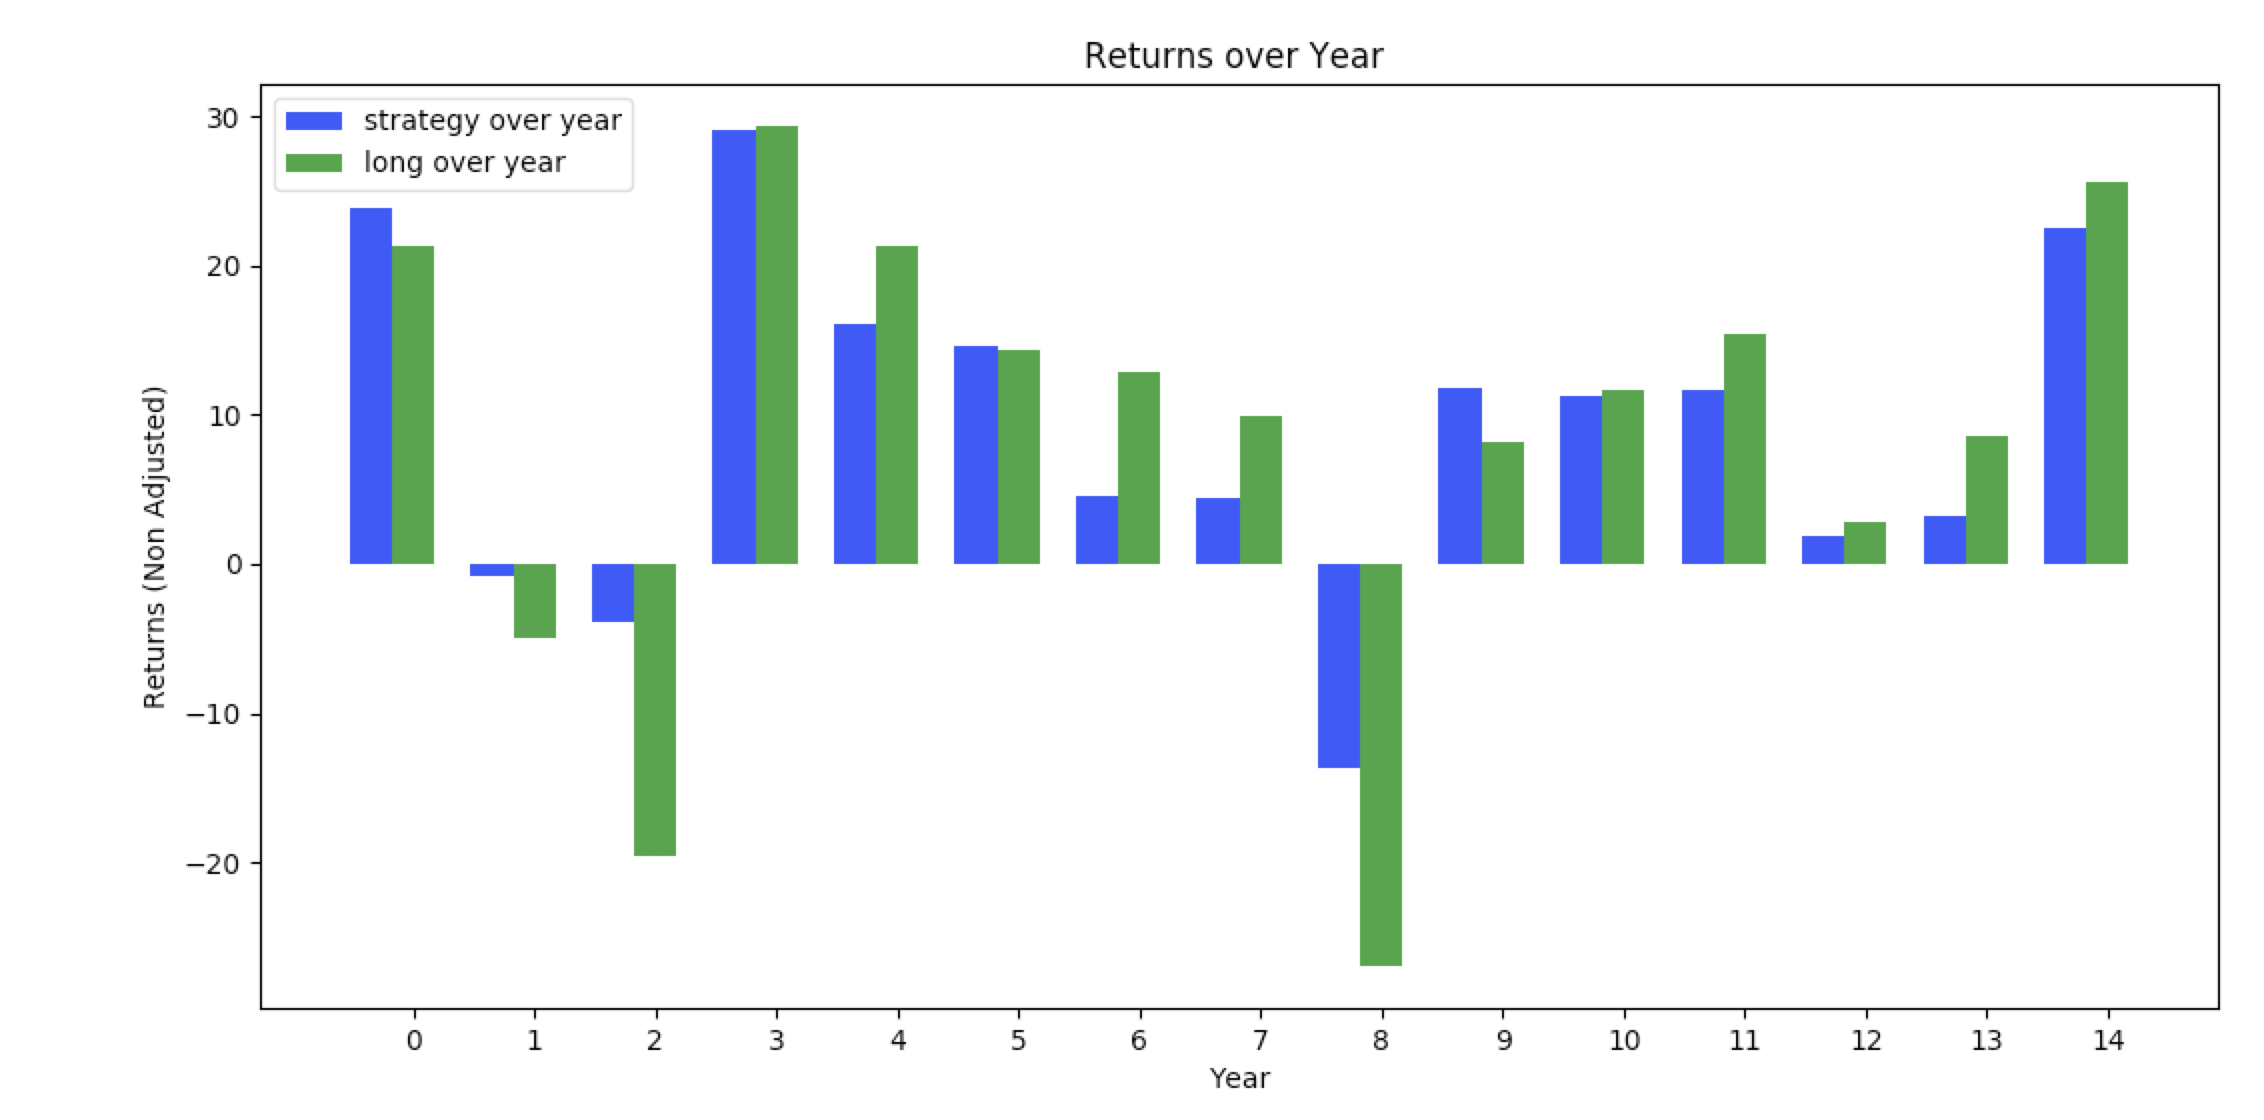
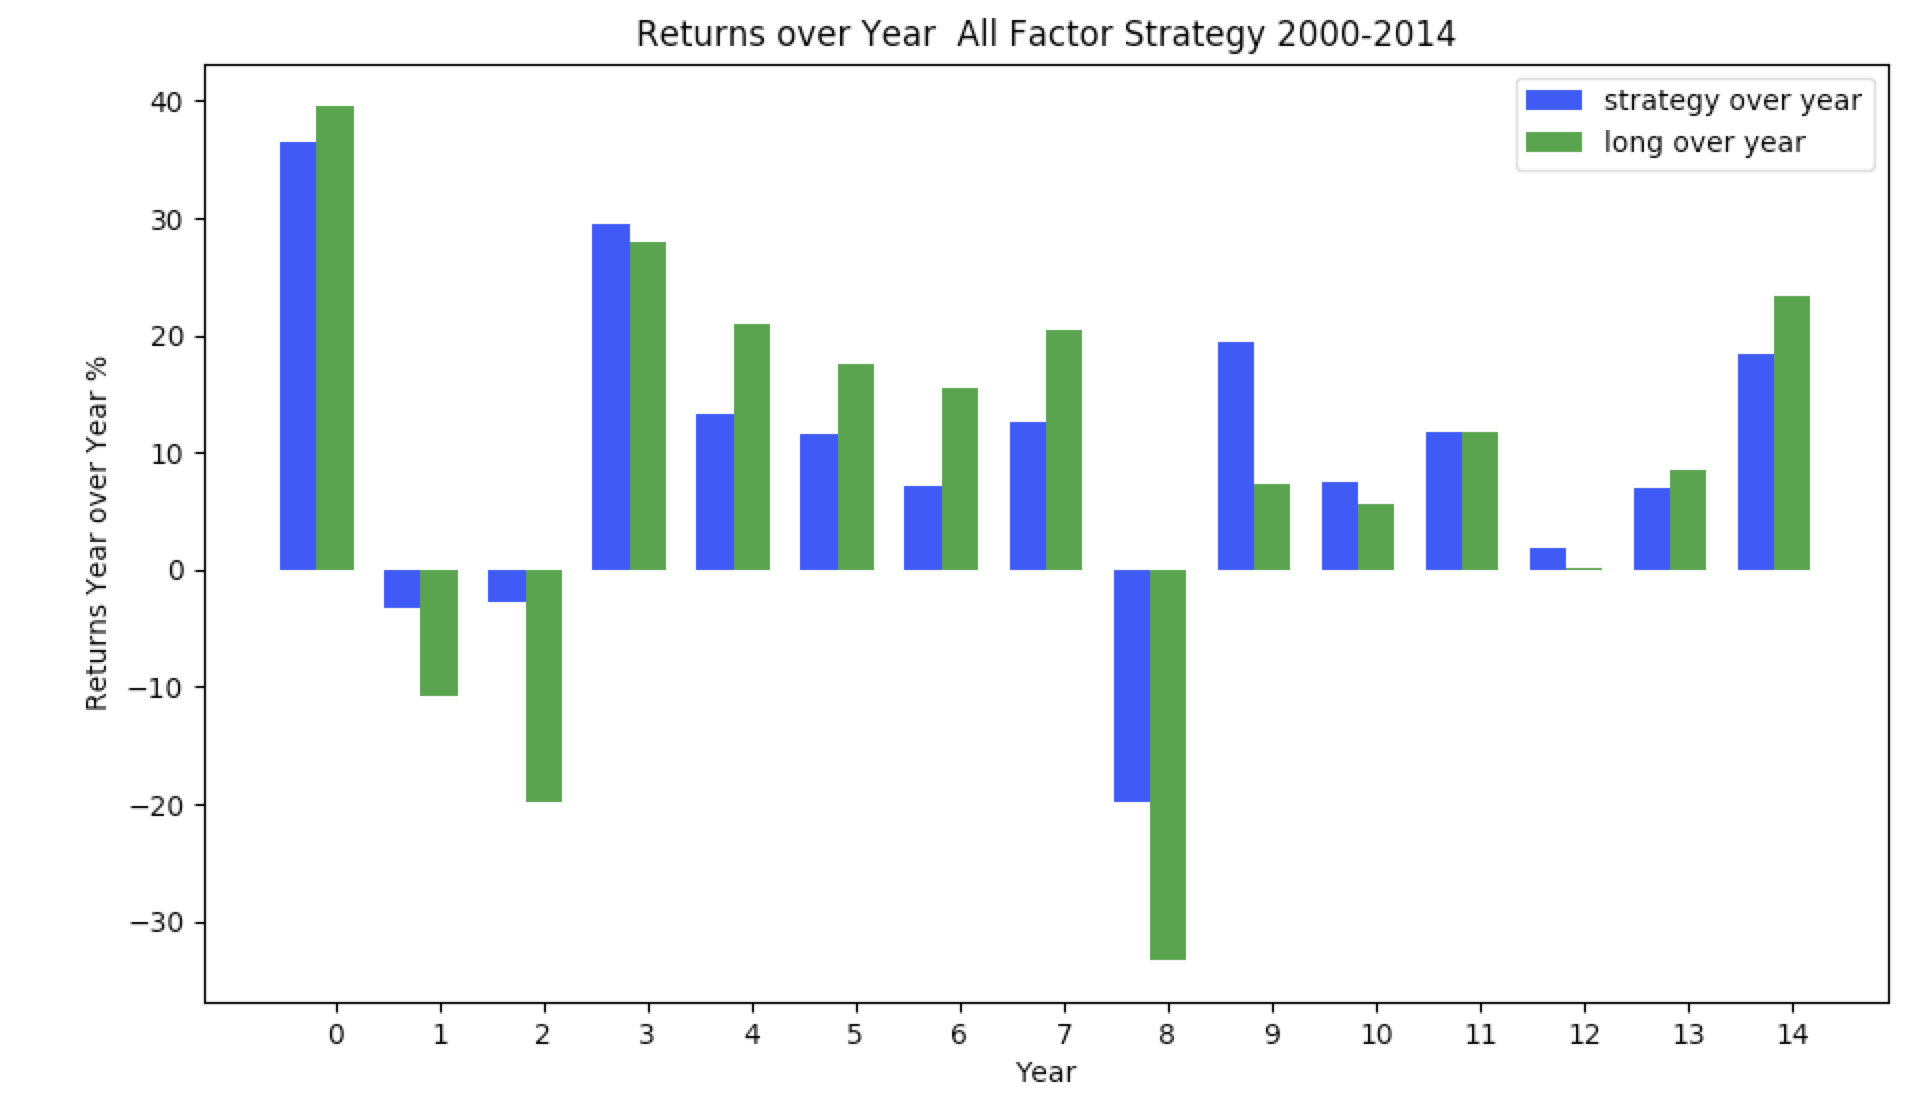
edits 2

Changed region(s): [[0.0312, 0.0, 0.9979, 0.9732]]

diff --git a/blog/utilityML.html b/blog/utilityML.html
@@ -30,6 +30,7 @@
 
 		 <div class = "col s6">
 			 <h2 style = "font-family: 'Raleway', sans-serif; color: blue"> An ML Exploration of Utility Companies </h2>
+       <p> <b> by: Rishub Nahar </b>
 			 <hr style = "color : red">
 
 			 <p style = "padding-top: 5%"> This project was an experiment in trying to use some basic machine learning techniques to create a trading strategy that performs better than random. This isn’t a coding or a math tutorial, it is an exploration of how we might be able to work with our data to make more accurate models. I will explain whatever math and code needed, but all you need is an interest to learn more about machine learning or trading strategies. With that, let’s get started ! </p>
@@ -64,7 +65,7 @@
 				<p style = "padding-top: 1%"> To illustrate the difference between linear and logistic regression, let  x be our vector of parameters (PEG ratio, PE ratio, etc) and 𝛳 be the vector of weights for each of those parameters.  </p>
 				<h5> <u> Linear Regression </u></h5>
 					<ul class = "browser-default">
-					  <li>h𝛳(x)=𝛳Tx  where h𝛳(x) is some y value</li>
+					  <li>h𝛳(x)=𝛳^Tx  where h𝛳(x) is some y value</li>
 					</ul>
         <h5> <u> Logistic Regression </u></h5>
           <ul class = "browser-default">
@@ -72,7 +73,7 @@
             </li>
 
             <li>A logistic regression is the same as a linear regression except
-              h𝛳(x)= g(𝛳Tx) = g(x) where g is the sigmoid function 1/  (1 + e^x) </li>
+              h𝛳(x)= g(𝛳Tx) = g(x) where g is the sigmoid function 1/  (1 + e^-x) </li>
           </ul>
 
           <hr style = "color : red">
@@ -147,35 +148,38 @@
               <p style = "padding-top: 1%"> A neural network is a way for us to capture non linear relationships in our data. I built one with the Keras library. Ultimately it was utterly unsuccessful and only predicted sell signals. I’m far from an expert in neural networks, but after building some rough models I really doubt that there is any meaningful non linear relationship in our data. Because of this I’m actually not going to explain how I built it right now. The explanation is a bit involved. If you are curious I’ll link a write up I made about it in the appendix, but for now let’s start testing our strategies and see if we can make some money!
 
             <h4 style = "font-family: 'Raleway', sans-serif; color: blue; padding-top : 5%"> Backtesting </h4>
-            <p style = "padding-top: 1%"> Backtesting is the process by which we are going to test our strategy on historical data.  I created a script to handle the process for us and we will backtest against the last 3 years of historical data we have. For the first backtest, I’m going to test our strategy for each company against a random and long only strategy (one where we buy at the beginning and just hold for the entire period). I’m testing our second strategy (where we used only significant factors) because it had the highest accuracy on the validation set. The backtest was conducted with $10,000 starting for each company. The average risk adjusted returns across all companies were then calculated.
-              <img style = "padding-top: 2%;" src = "images/mlUtility/Backtest1.png"  width = 100% >
+            <p style = "padding-top: 1%"> Backtesting is the process by which we are going to test our strategy on historical data.  I created a script to handle the process for us and we will backtest against the last 3 years of historical data we have. For the first backtest, I’m going to test our strategy for each company against a random and long only strategy (one where we buy at the beginning and just hold for the entire period). I’m testing our second strategy (where we used only significant factors) because it had the highest accuracy on the validation set. The backtest was conducted with $10,000 starting for each company. The average returns across all companies were then calculated.
+              <img style = "padding-top: 2%;" src = "images/mlUtility/BackTest1.png"  width = 100% >
               <p style = "padding-top: 1%"> Alright so as shown by the graph, in almost all cases, our strategy soundly beat random. It was on par with long only, though this was to be expected since we were mostly just predicting buy signals anyways.
                 <ul class = "browser-default">
-                  <li> AVERAGE STRAT RETURN: 4.11 %</li>
-                  <li> AVERAGE LONG RETURN: 4.14 % </li>
-                  <li> AVERAGE RANDOM RETURN: 0.18 %</li>
-                  <li> AVERAGE PERFECT RETURN: 14.13 % </li>
+                  <li> AVERAGE STRAT RETURN: 21.65 %</li>
+                  <li> AVERAGE LONG RETURN: 22.15% </li>
+                  <li> AVERAGE RANDOM RETURN: 0.65 %</li>
+                  <li> AVERAGE PERFECT RETURN: 139.04 % </li>
+                  <li> SHARPE RATIO: .43 </li>
                 </ul>
               <p style = "padding-top: 1%"> This shows just how close the two strategies are
-                <img style = "padding-top: 2%;" src = "images/mlUtility/backtest1b.png"  width = 100% >
+                <img style = "padding-top: 2%;" src = "images/mlUtility/BackTest1b.png"  width = 100% >
 
               <p style = "padding-top: 1%">I'm interested in seeing if we can get more alpha by using our original strategy, which predicted more sells.
                   <img style = "padding-top: 2%;" src = "images/mlUtility/BackTest2.png"  width = 100% >
-              <p style = "padding-top: 1%"> Unfortunately, this one fared even worse. Does that mean our model is completely useless. Well not exactly. Lets say we backtest over the entire time period. I know this isn't realistic given that we are testing on data we trained on, but we might get some insights about our data.
+              <p style = "padding-top: 1%"> Unfortunately, this strategy didn't make much of a difference. Although our Shapre Ratio improved a bit to .53. Does that mean our model is completely useless. Well not exactly. Lets say we backtest over the entire time period. I know this isn't realistic given that we are testing on data we trained on, but we might get some insights about our data.
                   <img style = "padding-top: 2%;" src = "images/mlUtility/BackTest3.png"  width = 100% >
               <p style = "padding-top: 1%"> You'll notice that while our strategy does get beat during periods of growth, it does a good job hedging against losses during periods of contraction, most noteably 2001-2002 and 2008. Returns looked like this over the entire time span:
                 <ul class = "browser-default">
-                  <li> AVERAGE STRAT RETURN: 37.43 %</li>
-                  <li> AVERAGE LONG RETURN: 24.59 % </li>
-                  <li> AVERAGE PERFECT RETURN: 1033.13 % </li>
+                  <li> AVERAGE STRAT RETURN: 301.43 %</li>
+                  <li> AVERAGE LONG RETURN: 138.59 % </li>
+                  <li> AVERAGE PERFECT RETURN: 13224.09 % </li>
+                  <li> SHARPE RATIO: .79 </li>
                 </ul>
               <p style = "padding-top: 1%">This got me thinking, what if we longed during bull markets and deployed our strategy only during bear markets. Maybe this best of both worlds approach will lead us to greater returns.
-                  <p style = "padding-top: 1%">I ran a version of the backtest which employed our strategy only during the years 2001,2002, and 2008. Sure enough, it achieved an average risk adjusted ROI of 43 % over the time span,  6% higher than what our strategy alone generated.
+                  <p style = "padding-top: 1%">I ran a version of the backtest which employed our strategy only during the years 2001,2002, and 2008. Sure enough, it achieved an ROI of 318.04 % over the time span,  17% higher than what our strategy alone generated.
                 <p style = "padding-top: 1%">  Again, I realize it is unrealistic to test against data that we have trained on, however this graph shows that our strategy can perhaps be useful to deploy during bear markets.
 
               <h4 style = "font-family: 'Raleway', sans-serif; color: blue; padding-top : 5%"> Moving Forward </h4>
                 <p style = "padding-top: 1%"> Throughout this whole process, creating more complicated models did not yield better returns. This means that the only way from here for us to push our alpha generation further is for us to come up with different factors that might have a large impact on the industry.
                   For this, one needs to some good old fashioned industry research. Right now I think that interest rates might be worth looking into. We already discovered that debt is a very important metric for this industry. Surely interest rates, which govern how onerous that debt is, would have an effect on price movements. I’ll write in an update when I plug interest rates into the model.
+                  In the future I could pick a different test measure than just accuracy. Sharpe Ratio might be a good one for example. Also, I could adjust the threshold of probabilities needed to return a buy signal. Right now we return buy if the probability is greater than .5.
 
 
 
